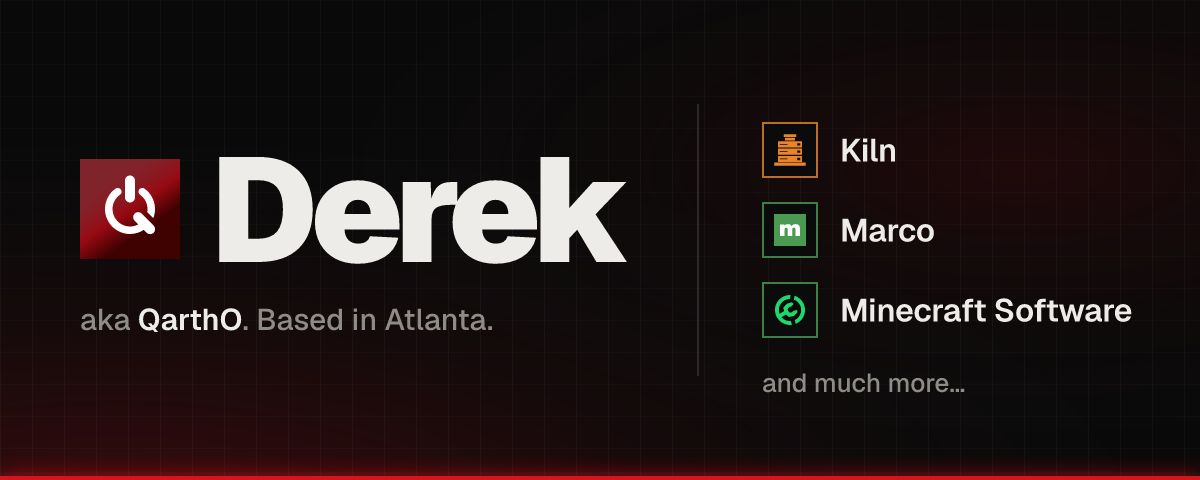
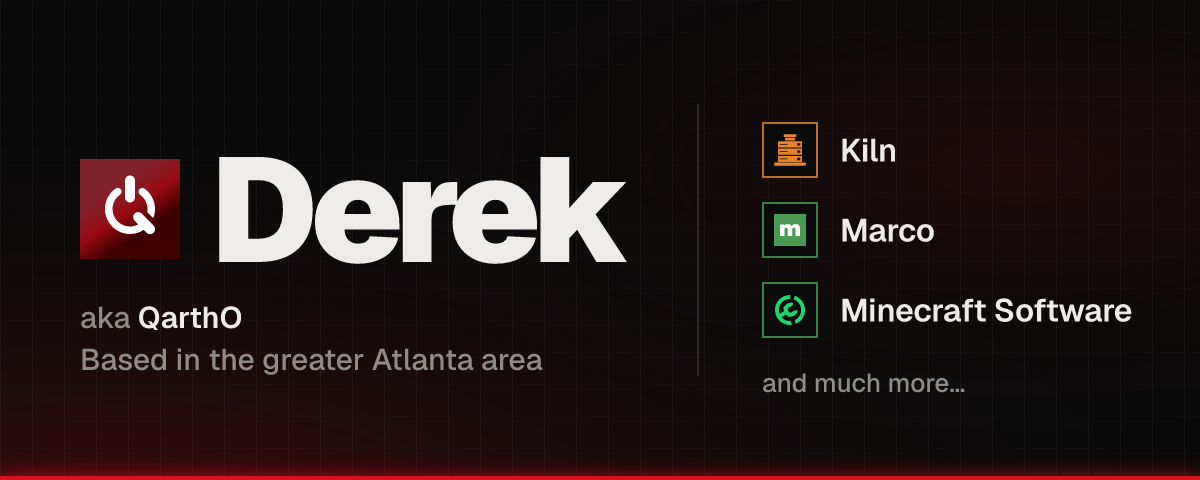
Say "Based in the greater Atlanta area"
Updates the line under the name and the preview card, where the location
moves to its own line to stay clear of the divider.

Changed region(s): [[0.0617, 0.7188, 0.4625, 0.7812], [0.0617, 0.625, 0.4317, 0.6875]]

diff --git a/src/app/index.tsx b/src/app/index.tsx
@@ -21,7 +21,7 @@ function Home() {
       <header className="identity">
         <h1 className="name">{site.name}</h1>
         <p className="aka">
-          aka <strong>{site.handle}</strong>. Based in Atlanta.
+          aka <strong>{site.handle}</strong>. Based in the greater Atlanta area
         </p>
         <ul className="traits">
           {site.traits.map((trait) => (
